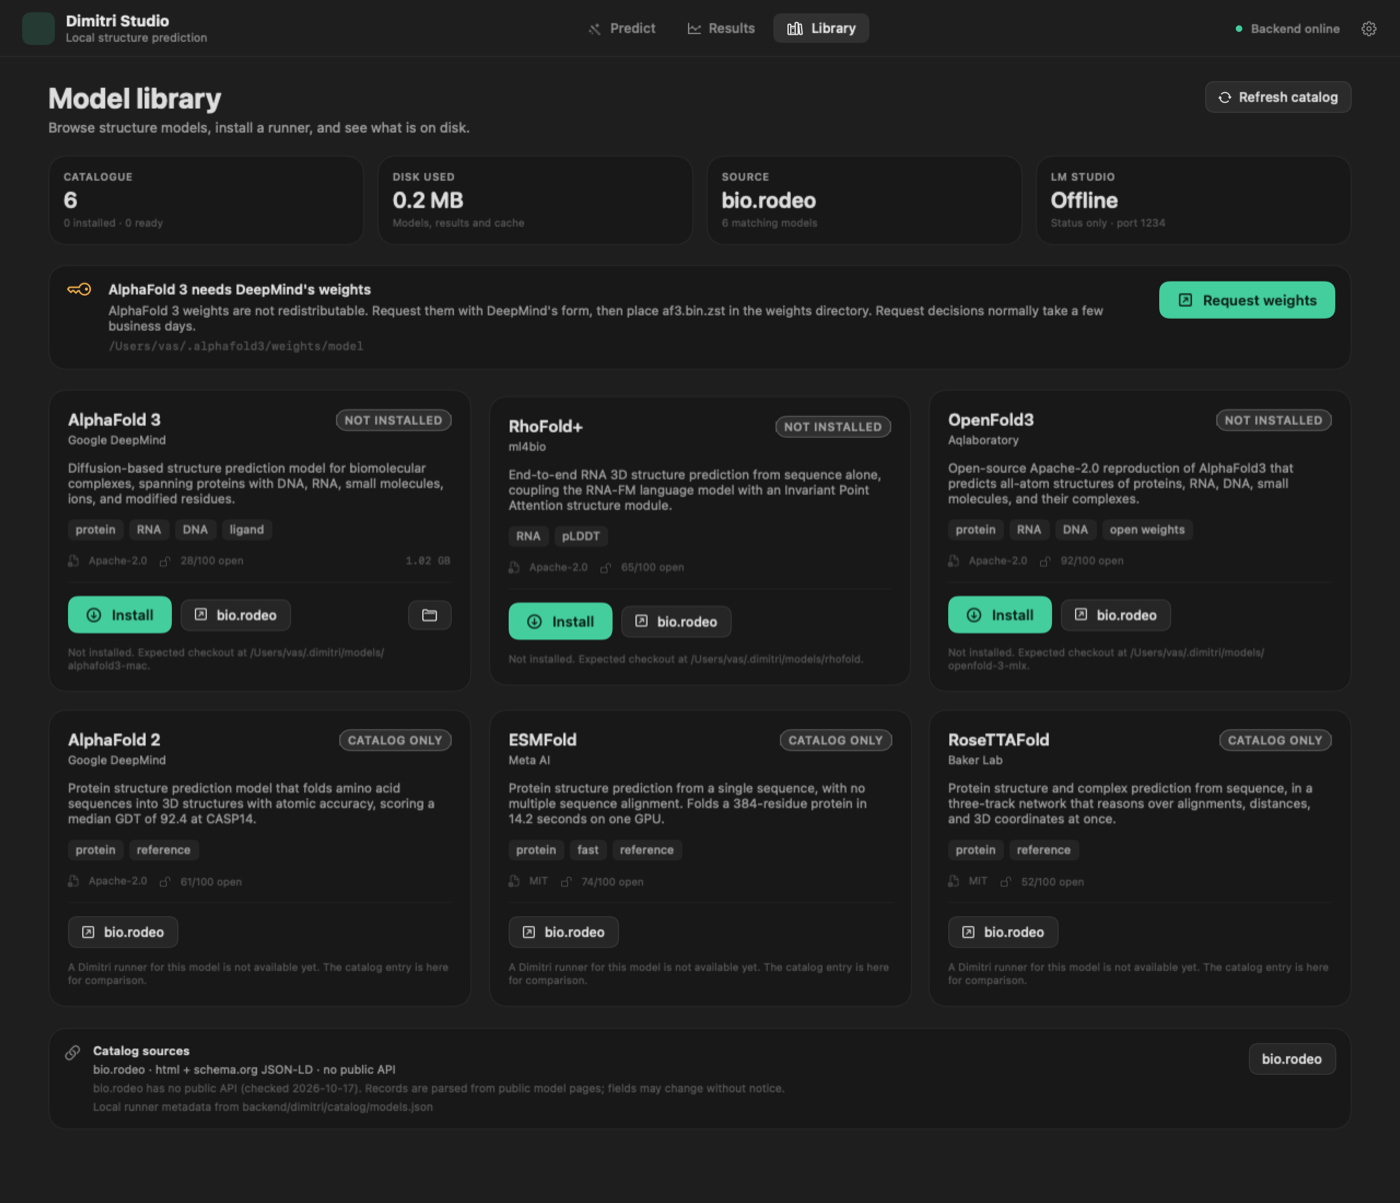
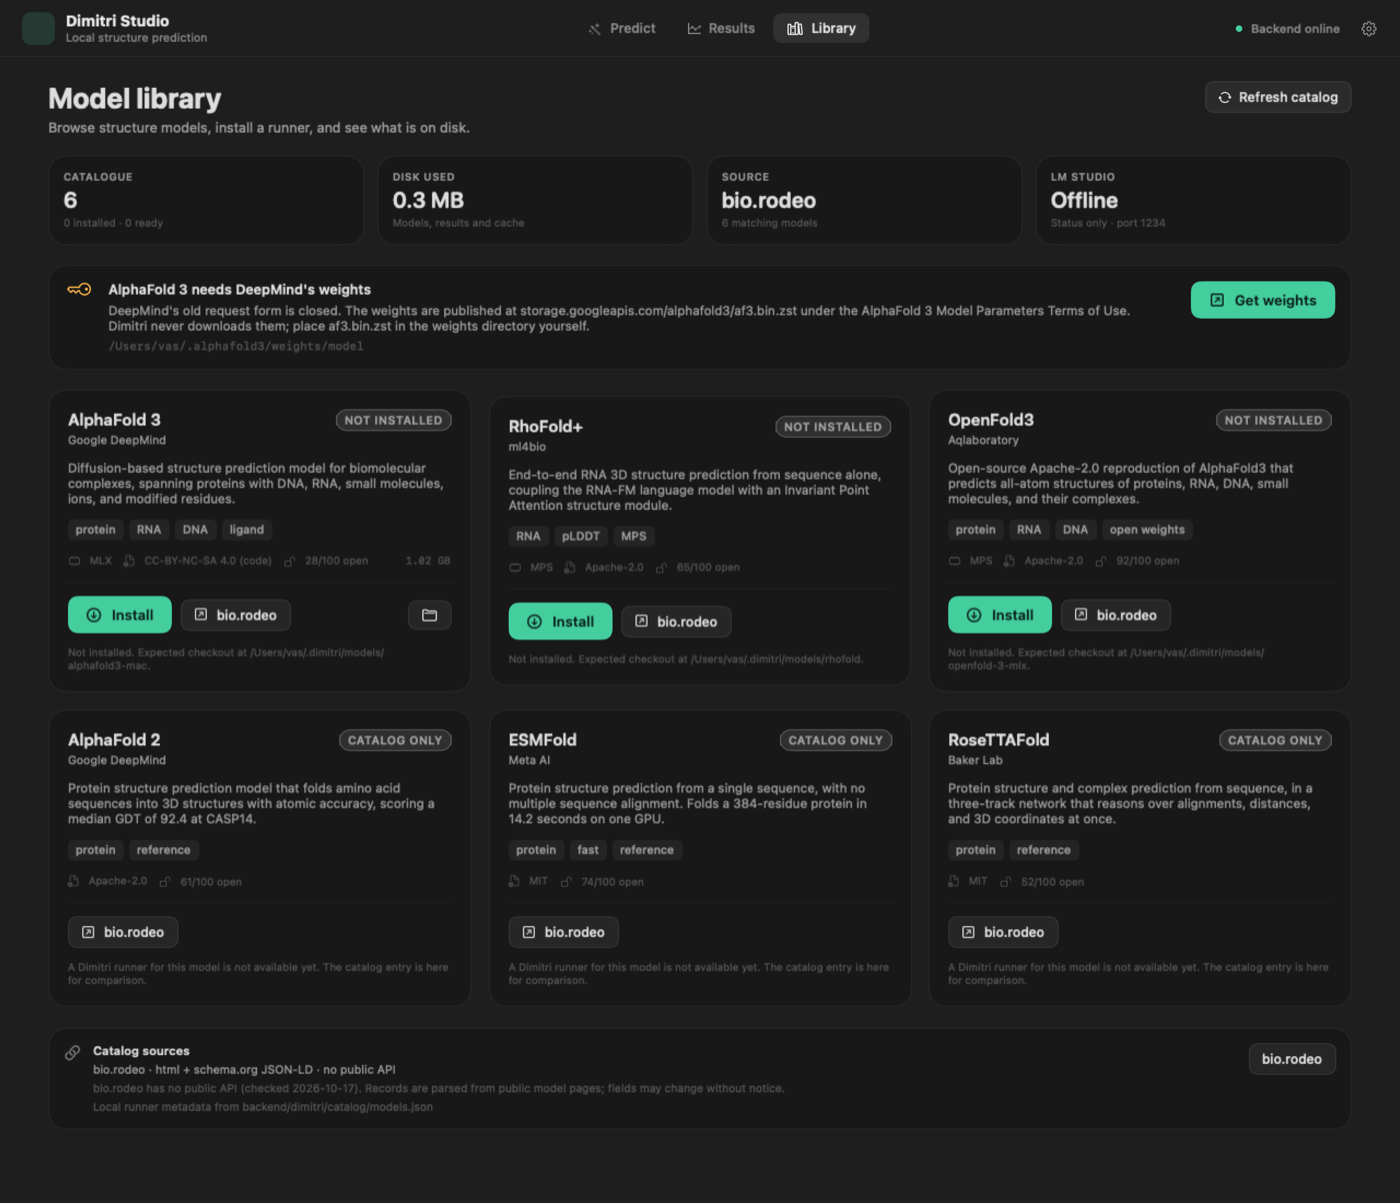
docs: platform/runtime policy, corrected AF3 weights and license
- MacBook-only, Apple Silicon, Metal via MLX or PyTorch MPS; no CUDA/llama.cpp/GGUF
- DeepSeek is an LLM family, not a structure-model runtime; LM Studio stays status-only
- AF3's old request form is closed; link DeepMind's published weights and terms
- AF3 code is CC-BY-NC-SA 4.0; update manifest, catalog and attribution
- correct bio.rodeo catalogue counts and refresh scope
- refresh screenshots

diff --git a/README.md b/README.md
@@ -2,7 +2,8 @@
 
 A simple, local-first Mac app for running protein and RNA structure models. Pick a
 model, paste a sequence, watch the stages, then inspect and export the structure.
-Nothing is uploaded.
+AlphaFold 3 and RhoFold stay on the Mac; OpenFold3's default runner enables its
+ColabFold MSA server, which is the one exception.
 
 This is an early build. It runs, it builds, and the pipeline is tested end to end
 with a synthetic runner. The three real models are integrated against their
@@ -12,21 +13,42 @@ weights and multi-gigabyte environments are not present.
 | Area | State |
 |---|---|
 | SwiftUI app: Predict, Results, Library, Settings | Working; `swift build` passes |
-| Backend: job queue, live stages (SSE), storage, exports | Working; 47 pytest tests pass |
+| Backend: job queue, live stages (SSE), storage, exports | Working; 59 pytest tests pass |
 | CIF, PDB and JSON export | Working and tested |
 | Mol* 3D viewer | Loads from jsDelivr; verified headlessly. Needs network |
 | bio.rodeo catalogue | Working adapter against live pages; no public API (see below) |
 | LM Studio detection (`localhost:1234/v1`) | Working, status only |
-| AlphaFold 3 runner (`alphafold3-mac`) | Implemented against the upstream CLI; not run (weights gated, checkout absent) |
+| AlphaFold 3 runner (`alphafold3-mac`) | Implemented against the upstream CLI; not run (checkout absent; weights are present on this machine) |
 | RhoFold+ runner (PyTorch MPS) | Implemented; setup script and vendored patch present; checkpoint not downloaded |
 | OpenFold3 runner (`openfold-3-mlx`) | Implemented against the upstream CLI; environment not installed |
 | Synthetic demo runner | Working; hidden from users, used by tests |
 
 ![Predict screen](docs/screenshots/predict.png)
 
+## Platform and runtime
+
+Dimitri Studio is **MacBook-only**: Apple Silicon (M1 or later), macOS 14+, Metal
+through MLX or PyTorch MPS. There is no CUDA path, no llama.cpp, and no GGUF.
+Each Python model runtime lives in its own environment; the Swift app never loads
+weights or runs inference itself.
+
+| Model | Runtime | Device | Fallback |
+|---|---|---|---|
+| AlphaFold 3 | `alphafold3-mac` MLX port | `mlx` (Metal) | none |
+| RhoFold+ | PyTorch (upstream RhoFold+) | `mps` | CPU, last resort |
+| OpenFold3 | OpenFold3-MLX kernels (`mlx_runner.yml`) on PyTorch | `mps` | none |
+
+MLX is preferred wherever a port exists. PyTorch MPS is the fallback for models
+without an MLX port. CPU is only used when MPS is unavailable; the result's
+**Device** row and note say when that happened.
+
+DeepSeek and other language models are not inference engines for these structure
+models, so none is used. LM Studio is detected for status only; there are no LLM
+features.
+
 ## Requirements
 
-- Apple Silicon Mac, macOS 14 or later
+- MacBook with Apple Silicon (M1 or later), macOS 14 or later
 - Xcode Command Line Tools (Swift 6)
 - [uv](https://docs.astral.sh/uv/) for the Python backend
 - Network access to install models, refresh the catalogue, and load Mol*
@@ -35,7 +57,7 @@ Model sizes and memory differ a lot. Upstream guidance:
 
 | Model | Weights | Other disk | Notes |
 |---|---|---|---|
-| AlphaFold 3 MLX | ~1 GB (`af3.bin.zst`) | ~3 GB checkout/deps | Upstream recommends a Max/Ultra chip and 36 GB+ unified memory; gated weights |
+| AlphaFold 3 MLX | ~1 GB (`af3.bin.zst`) | ~3 GB checkout/deps | Upstream recommends a Max/Ultra chip and 36 GB+ unified memory; weights under DeepMind's terms |
 | RhoFold+ | ~508 MB checkpoint | small | Runs on MPS; RNA only |
 | OpenFold3-MLX | several GB | ~10 GB with dependencies | Upstream targets 16 GB+ |
 
@@ -76,14 +98,16 @@ not implemented yet.
 
 ### AlphaFold 3 weights
 
-The AlphaFold 3 weights are not redistributable, so Dimitri never downloads them.
-Request them from DeepMind:
+Dimitri never downloads AlphaFold 3 weights. DeepMind's old request form is now
+closed; it currently publishes the parameters directly:
 
-<https://forms.gle/svvpY4u2jsHEwWYS6>
+<https://storage.googleapis.com/alphafold3/af3.bin.zst>
 
-Then place the file in the weights directory shown in the Library and Settings
-(default `~/.alphafold3/weights/model/`). The runner recognises `af3.bin.zst`,
-`af3.bin`, `af3.*.bin.zst` and split `af3.bin.zst.*` shards.
+They are governed by the
+[AlphaFold 3 Model Parameters Terms of Use](https://github.com/google-deepmind/alphafold3/blob/main/WEIGHTS_TERMS_OF_USE.md).
+Place the file in the weights directory shown in the Library and Settings (default
+`~/.alphafold3/weights/model/`). The runner recognises `af3.bin.zst`, `af3.bin`,
+`af3.*.bin.zst` and split `af3.bin.zst.*` shards.
 
 Library → Install clones `omrikais/alphafold3-mac` into
 `~/.dimitri/models/alphafold3-mac` and runs `uv sync`. If the CLI still reports
@@ -179,15 +203,16 @@ See [ARCHITECTURE.md](ARCHITECTURE.md) for the component and job-flow details, a
 ## Privacy
 
 Sequences and structures are stored only on this Mac under `~/.dimitri` and are
-sent only to the local backend on `127.0.0.1`. Model setup and catalogue refresh
-make outbound requests to GitHub, Hugging Face, OpenFold and bio.rodeo. OpenFold3
-may call its MSA server. No analytics.
+sent to the local backend on `127.0.0.1`. Model setup and catalogue refresh make
+outbound requests to GitHub, Hugging Face, OpenFold and bio.rodeo. OpenFold3's
+default `mlx_runner.yml` enables the ColabFold MSA server, so protein sequences
+are sent to that service unless MSA search is disabled upstream. No analytics.
 
 ## Attribution
 
 - AlphaFold 3: Abramson et al., *Nature* 630, 493–500 (2024); MLX port by
-  [omrikais/alphafold3-mac](https://github.com/omrikais/alphafold3-mac), Apache-2.0
-  code, gated model parameters.
+  [omrikais/alphafold3-mac](https://github.com/omrikais/alphafold3-mac),
+  CC-BY-NC-SA 4.0 code, model parameters under DeepMind's terms.
 - RhoFold+: Shen et al., *Nature Methods* 21, 2287–2299 (2024);
   [ml4bio/RhoFold](https://github.com/ml4bio/RhoFold), Apache-2.0.
 - OpenFold3: AlQuraishi Lab; [latent-spacecraft/openfold-3-mlx](https://github.com/latent-spacecraft/openfold-3-mlx), Apache-2.0.

diff --git a/ARCHITECTURE.md b/ARCHITECTURE.md
@@ -23,6 +23,30 @@ Dimitri Studio is two processes on one Mac:
 The backend owns all state and files. The app is a client: it never shells out or
 touches model weights itself.
 
+## Runtime policy
+
+Dimitri is MacBook-only. All inference targets Apple Silicon through Metal:
+
+| Runner | Runtime | Device | Fallback | Environment |
+|---|---|---|---|---|
+| `alphafold3-mac` | MLX port of AlphaFold 3 | `mlx` | none | `~/.dimitri/models/alphafold3-mac/.venv` |
+| `rhofold` | Upstream RhoFold+ on PyTorch | `mps` | CPU, last resort | `~/.dimitri/models/rhofold/.venv` |
+| `openfold3` | OpenFold3-MLX kernels on PyTorch | `mps` | none | `~/.dimitri/models/openfold-3-mlx/.venv` |
+
+There is no CUDA code path, no llama.cpp, and no GGUF. No runner accepts a generic
+`--device cuda` option. MLX is preferred where a port exists; PyTorch MPS is the
+fallback for models without one; CPU is only used if MPS is unavailable, and the
+result's device row and note say so.
+
+The runtime is data, not hardcoded UI: `RunnerManifest` carries `runtime`, `device`
+and `fallback`, and `to_model()` exposes them through `/api/runners` and
+`/api/models`. Each completed job also records the device it actually used
+(`JobResult.device`), which Results displays. The app shows the target runtime in
+Predict and Library.
+
+DeepSeek and other LLMs are not runtimes for structure prediction and are not part
+of the inference stack. The LM Studio probe is a status check only.
+
 ## Backend
 
 ### AppState and settings
@@ -31,7 +55,7 @@ touches model weights itself.
 (or `DIMITRI_HOME`), creates the storage directories, then constructs the registry,
 job store, job manager and catalogue. Saving settings rebuilds all four, so runner
 paths change without a restart. Paths must be absolute; this is validated in
-`PUT /api/settings`.
+`PUT /api/settings`. Paths must be absolute or `~`-prefixed; both are expanded.
 
 ### Job queue
 
@@ -119,11 +143,12 @@ with no dependency.
 1. a curated local list (`catalog/models.json`) that binds a model to a runner and
    a bio.rodeo slug, and
 2. metadata read from bio.rodeo model pages (name, description, provider, license,
-   openness, citation).
+   openness).
 
-It ships a snapshot built from live requests and can refresh into an on-disk cache
-with a 24-hour TTL. There is no bio.rodeo API; the adapter parses schema.org JSON-LD
-plus two visible stat spans. Details and evidence are in
+It ships a snapshot built from live requests and can refresh into an on-disk cache.
+The cache is used while it is younger than 24 hours; the shipped snapshot is the
+fallback. There is no bio.rodeo API; the adapter parses schema.org JSON-LD plus two
+visible stat spans. Details and evidence are in
 [docs/BIO_RODEO.md](BIO_RODEO.md).
 
 ### Disk usage

diff --git a/docs/BIO_RODEO.md b/docs/BIO_RODEO.md
@@ -11,7 +11,7 @@ Pulsatance project). It is a catalogue and review site, not a model-download hub
 | `GET https://bio.rodeo` | `200`, Next.js on Vercel, title “bio.rodeo - The Analyst for Bio AI” |
 | `GET https://bio.rodeo/robots.txt` | `200`; allows all; points at the sitemap |
 | `GET https://bio.rodeo/sitemap.xml` | `200`, ~554 KB, **3,347** `<loc>` URLs, including `/models/<slug>` |
-| `GET https://bio.rodeo/models` | `200`; searchable list; `?q=` filters results |
+| `GET https://bio.rodeo/models` | `200`; searchable list; `?q=` ranks closest matches |
 | `GET https://bio.rodeo/models/alphafold-3` | `200`; full model page |
 | `GET https://bio.rodeo/models/rhofold-plus` | `200`; RhoFold+ page |
 | `GET https://bio.rodeo/models/openfold3` | `200`; OpenFold3 page |
@@ -79,11 +79,13 @@ PYTHONPATH=backend backend/.venv/bin/python scripts/build_bio_rodeo_snapshot.py
   redesign.
 - **Metadata only.** bio.rodeo does not provide model weights, downloads or
   installers. Those come from each model's own project (GitHub, Hugging Face,
-  OpenFold, or DeepMind's request form for AlphaFold 3).
+  OpenFold, or DeepMind's published AlphaFold 3 parameters).
 - **Coverage is curated.** Dimitri reads a small set of slugs relevant to structure
-  prediction, not the full 3,000+ catalogue.
+  prediction, not the full ~2,600-model catalogue (2,565 model pages at review
+time).
 - **No affiliation.** bio.rodeo is used as a public reference source. Dimitri is not
   endorsed by it, and links point back to the model pages.
 - **Rate and usage.** The adapter uses a descriptive User-Agent, fetches only public
-  GET pages, pauses between requests, and caches for 24 hours. A refresh of six
-  pages is normal use, not bulk crawling.
+  GET pages, pauses between requests, and caches for 24 hours. The snapshot script
+  fetches six curated pages; a live refresh fetches the cached set or, on first
+  run, up to 24 sitemap entries. This is small-scale use, not bulk crawling.
